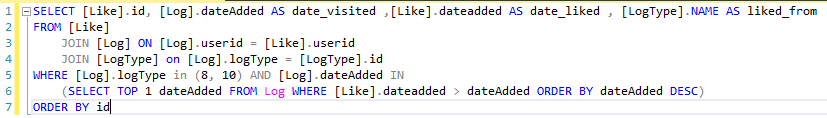
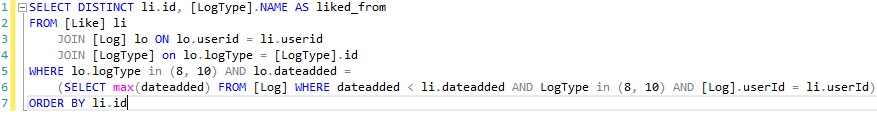
Add q2 and q3

Changed region(s): [[0.0, 0.0, 1.0, 0.9652]]

diff --git a/Bachelorproef/methodologie.tex b/Bachelorproef/methodologie.tex
@@ -16,20 +16,21 @@
 \textbf{INLEIDING LITERATUURSTUDIE}
 
 \subsection{Installatie}
+\label{Installatie}
 
-Elasticsearch is gratis als je zelf gaat hosten. De installatie verloopt zeer snel. Eerst moet je zorgen dat je Java hebt staan op je computer. Daarna download je een versie van Elasticsearch naar keuze op hun website. Pak het bestand uit en je bent klaar om je eerste node op te starten. Als dat allemaal te moeilijk lijkt is er ook een grafische user interface beschikbaar via de MSI installer package. Op hun website vind je stap voor stap hoe je de installatie kunt uitvoeren. 
+Elasticsearch is gratis als je beslist om zelf te hosten. De installatie verloopt zeer snel. Eerst moet je zorgen dat Java geïnstalleerd staat op je computer. Daarna download je een versie van Elasticsearch naar keuze via hun website. Pak het bestand uit en je bent klaar om je eerste node op te starten. Als dat te moeilijk is kan men gebruik maken van een grafische user interface die beschikbaar is via de MSI installer package. Op hun website staat stap voor stap uitgelegd hoe je de installatie kunt uitvoeren. 
 
-Er hangen niet zoveel nadelen vast aan het zelf hosten van Elasticsearch. Je moet over voldoende ruimte beschikken op je harde schijf. Dat kan moeilijk worden wanneer men met grote hoeveelheden data werkt. Het is ook belangrijk om te weten dat je zelf verantwoordelijk bent voor eventuele downtimes. Het is dus perfect mogelijk om Elasticsearch volledig gratis te gebruiken. 
+Er hangen niet zoveel nadelen vast aan het zelf hosten van Elasticsearch. Ten eerste moet je over voldoende ruimte beschikken op je harde schijf. Dat kan moeilijk worden wanneer men met grote hoeveelheden data werkt. Ten tweede is het belangrijk om te weten dat je zelf verantwoordelijk bent voor eventuele downtimes. Het is dus perfect mogelijk om Elasticsearch volledig gratis te gebruiken. 
 
-Wanneer men beslist om te betalen voor de hosting bij Elasticsearch krijgt men enkele voordelen mee. De eerder vermelde problemen in verband met ruimte op je harde schijf en downtimes zijn niet langer van toepassing.  Aan de hosting zijn een aantal Service Level Agreements gebonden die ervoor zorgen dat je verzekerd bent op een goede kwaliteit en op voldoende support. De kostprijs is 36,53 EUR per maand. Er is ook een mogelijkheid om vooraf een proefversie van 14 dagen te gebruiken 
+Wanneer men beslist om te betalen voor de hosting bij Elasticsearch krijgt men enkele voordelen mee. De eerder vermelde problemen in verband met ruimte op je harde schijf en downtimes zijn niet langer van toepassing.  Aan de hosting zijn een aantal Service Level Agreements gebonden die ervoor zorgen dat je verzekerd bent op een goede kwaliteit en op voldoende support. De kostprijs is 36,53 EUR per maand. Er is ook een mogelijkheid om vooraf een proefversie van 14 dagen te gebruiken.
 
 \subsection{Data importeren in Elasticsearch}
 
-Om data te exporteren van uw databank naar Elasticsearch zijn er een aantal mogelijkheden. De eerste mogelijkheid is er één die Elasticsearch zelf aanbiedt. Daarvoor maken ze gebruik van een ander product uit de Elastic Stack: Logstash. \textbf{GEEF IK HIER UITLEG OVER ELASTIC STACK?} Logstash is een tool om data te verwerken, te transformeren en uit te wisselen. Het is een product waar ook veel informatie en support van te vinden is. Logstash is dus een tool die veel flexibiliteit biedt maar vraagt wel een extra installatie. 
+Om data te exporteren van uw databank naar Elasticsearch zijn er een aantal mogelijkheden, afhankelijk van welke databank u gebruikt. De eerste mogelijkheid is er één die Elasticsearch zelf aanbiedt. Daarvoor maken ze gebruik van een ander product uit de Elastic Stack\footnote{De Elastic Stack is een verzameling van open-source producten van Elastic.}: Logstash. Logstash is een tool om data te verwerken, te transformeren en uit te wisselen. Het is een product waar veel informatie en support over te vinden is. Logstash is dus een tool die veel flexibiliteit biedt maar vraagt wel een extra installatie. 
 
 Daarnaast zijn er een aantal tools die aangeboden worden door de community. Van die tools is er in het algemeen minder support te vinden. Nog een nadeel is dat het niet altijd mogelijk is om uw data naar de laatste versie van Elasticsearch te exporteren. De versies van de tools lopen namelijk in het algemeen achter op de nieuwste versie van Elasticsearch. 
 
-Zowel Logstash als de meeste tools die worden aangeboden door de community bieden ook de functionaliteit aan om data te synchroniseren. Dat wil zeggen dat, wanneer uw data veranderd in uw databank, die veranderingen ook doorgevoerd worden in Elasticsearch. 
+Zowel Logstash als de meeste tools die worden aangeboden door de community bieden ook de functionaliteit aan om data te synchroniseren. Dat wil zeggen dat, wanneer uw data veranderd in uw databank, die veranderingen ook doorgevoerd worden in Elasticsearch. In veel use cases zal dit veel voordelen bieden. 
 
 \textbf{VERDERE LITERATUURSTUDIE}
 
@@ -40,11 +41,11 @@ Om enkele voor- en nadelen uit de literatuurstudie te bevestigen of te ontkracht
 Een voordeel van een project opzetten om bepaalde zaken zelf te gaan ondervinden is dat men de grootte van het voor- of nadeel beter kan inschatten. Als men bijvoorbeeld een zwakte van Elasticsearch ondervind, dan zal men toch een antwoord op de vooraf opgestelde vraag moeten krijgen. Men zal dan ondervinden in hoeverre Elasticsearch toch in staat is om als hulpmiddel te dienen bij het oplossen van de vraag. Of misschien is er workaround waardoor de zwakte eigenlijk niet zo'n groot probleem is. Dat is informatie die met een literatuurstudie moeilijker te verkrijgen is.
 
 \subsection{De dataset}
-De dataset heb ik verkregen van het bedrijf waar ik mijn stage doe. Insites Consulting is een consulting bureau die haar klanten ondersteund in het nemen van doorslaggevende beslissingen. Dat doet men aan de hand van marktonderzoek. Uit de resultaten van zo'n marktonderzoek creërt men dan inzichten die worden doorgegeven aan de klant. 
+De dataset heb ik verkregen van het bedrijf waar ik mijn stage doe. Insites Consulting is een consulting bureau die haar klanten ondersteund in het nemen van doorslaggevende beslissingen. Dat doet men aan de hand van marktonderzoek. Uit de resultaten van zo'n marktonderzoek creërt men inzichten die worden doorgegeven aan de klant. 
 
 De ervaring leert dat het soms moeilijk is voor de klant om zo'n inzicht te benutten. In andere gevallen komen de resultaten van het marktonderzoek ergens in een documentje op de computer van de klant en wordt er verder niks mee gedaan. Insites Consulting bouwde enkele jaren geleden een applicatie die dit probleem tegengaat. De applicatie heet Insight Activation Studio. Elke klant krijgt een unieke Studio die aangepast wordt naar de noden, waarden en kleuren van de klant. Die aanpassingen gebeuren in eerste instantie door mensen van Insites Consulting maar ook de klant heeft een dashboard ter beschikking. Een dashboard is een geïsoleerd stuk van de applicatie die admin-gebruikers toelaat om de studio van hun bedrijf te beheren.  
 
-Werknemers van de klant kunnen zich registreren bij de Studio van hun bedrijf. Eens ze aangemeld zijn krijgen ze de mogelijkheid om walls\footnote{Een wall is een verzameling van tiles die min of meer over hetzelfde onderwerp gaan} en tiles\footnote{Een tile is vergelijkbaar met een post op Facebook maar met meer mogelijkheden. Een tile bestaat uit een type (idee, filmpje, foto, observatie, quiz, discussie, …), een titel, een beschrijving en er kan ook media aan toegevoegd worden. Andere mensen kunnen op jouw tile reageren en kunnen deze ook liken.} aan te maken. Ook krijgen ze walls en tiles van anderen te zien. Het is de bedoeling dat de verworven inzichten op deze Studio komen zodat mensen daarop kunnen reageren en liken. Zo ziet men snel welke inzichten populairder zijn bij de werknemers en worden die tot leven gebracht. Uit die inzichten kunnen ook nieuwe ideën vloeien.
+Werknemers van de klant kunnen zich registreren bij de Studio van hun bedrijf. Eens ze aangemeld zijn krijgen ze de mogelijkheid om walls\footnote{Een wall is een verzameling van tiles die min of meer over hetzelfde onderwerp gaan.} en tiles\footnote{Een tile is vergelijkbaar met een post op Facebook maar met meer mogelijkheden. Een tile bestaat uit een type (idee, filmpje, foto, observatie, quiz, discussie, …), een titel, een beschrijving en er kan ook media aan toegevoegd worden. Andere mensen kunnen op jouw tile reageren en kunnen deze ook liken.} aan te maken. Ook krijgen ze walls en tiles van anderen te zien. Het is de bedoeling dat de verworven inzichten op deze Studio komen zodat mensen daarop kunnen reageren en liken. Zo ziet men snel welke inzichten populairder zijn bij de werknemers en worden die tot leven gebracht. Uit die inzichten kunnen ook nieuwe ideën vloeien.
 
 De Insights Academy is een feature die in de Studio verweven zit. Daarop kunnen werknemers lessen volgen om te leren hoe men gebruik kan maken van zo’n inzicht. Daarnaast zijn er nog andere zaken (leaderboards, widgets, teams, … ) die het volledige proces leuker maken. Insights Activation Studio is dus eigenlijk de social media voor werknemers binnen een bedrijf om inzichten te creëren en tot leven te brengen.
 
@@ -56,23 +57,27 @@ De vragen heb ik verkregen van mijn co-promoter, Ken Vanderbeken, die Lead Devel
 De vragen zijn de volgende:
 \begin{itemize}
 	\item Werken bepaalde tile types beter dan andere? Meer response? (like/comment) 
-	\item Waar gebeuren de meeste likes? Vanaf de homepage of op wall pages?
-	\item Heeft de lengte van de titel van een tile invloed op aantal likes? 
-	\item Heeft de lengte van de description van een tile invloed op aantal likes? 
+	\item Waar gebeuren de meeste likes? Vanaf de homepagina of op wall pages?
+	\item Heeft de lengte van de titel van een tile invloed op aantal comments/likes? 
 \end{itemize}
 
 \subsection{Opzetten van het project}
 
-Voor de installatie van Elasticsearch verwijs ik graag naar \textbf{SECTION} aangezien alles verliep zoals het daar beschreven staat. Ik maakte geen gebruik van de grafische user interface aangezien het over een eenvoudige installatie gaat.
+Voor de installatie van Elasticsearch verwijs ik graag naar sectie \ref{Installatie} uit de literatuurstudie waar de installatie aan bod komt. De installatie gebeurde probleemloos op de manier zoals het daar beschreven staat. Ik maakte geen gebruik van de grafische user interface aangezien het over een eenvoudige installatie gaat.
 
-Om de data te exporteren heb ik gekozen voor een tool die ondersteund wordt door de community: JBDC importer for Elasticsearch. Mijn keuze is niet uitgegaan naar Logstash omdat er in de gids vermeld staat dat Logstash vooral gebruikt wordt om logs op te slaan. Ook had ik geen nood aan alle features die Logstash te bieden heeft. De methode van de JBDC importer leek me in mijn geval veel bruikbaarder. \textbf{(LINK?)} 
+Om de data te exporteren heb ik gekozen voor een tool die ondersteund wordt door de community: JBDC importer for Elasticsearch. Mijn keuze is niet uitgegaan naar Logstash omdat er in de gids vermeld staat dat Logstash vooral gebruikt wordt om logs op te slaan. Ook had ik geen nood aan alle features die Logstash te bieden heeft. De methode van de JBDC importer leek me in mijn geval veel bruikbaarder.
 
 Ik begon met de JBDC importer versie 2.3.4.1 te downloaden en uit te pakken. De uitgepakte map bevat een modelscript dat slechts een aantal aanpassingen nodig heeft om uitgevoerd te kunnen worden. Het script laat je toe om een query naar uw databank te sturen, en de resultaten op te slaan in één van uw Elasticsearch indices. Daarna downloadde ik de SQL Server JDBC driver versie 6.2 en kopieerde die naar de lib map in de JDBC importer. Deze stap is onnodig indien men met een MySQL databank werkt. 
 
-De voorlaatste stap is het aanmaken van de indices. Een index aanmaken in Elasticsearch is zeer eenvoudig.\textbf{ SCRIPT}
-Per index moet het modelscript, mits een aantal aanpassingen, uitgevoerd worden. 
+De voorlaatste stap is het aanmaken van de indices. Een index aanmaken in Elasticsearch is zeer eenvoudig. Via de API moet er een PUT-request worden gestuurd met als URL: http://localhost:9200/naam\textunderscore index.
+Per index moet het modelscript, mits een aantal aanpassingen, uitgevoerd worden. Het modelscript is te zien in figuur \ref{fig:data_import}.
 
-\textbf{SCRIPT }
+\begin{figure}
+	\centering
+	\includegraphics[width= 15cm]{data_import}
+	\caption{Modelscript om data te exporteren van SQL Server naar Elasticsearch}
+	\label{fig:data_import}
+\end{figure}
 
 \subsection{Uitvoeren van de data-analyses}
 Nadat ik de dataset succesvol overzette werd het tijd om met Elasticsearch te leren werken. Een belangrijk voordeel van de zoek- en analyse machine is dat er veel support is. Op hun website bieden ze een zeer uitgebreide, gestructureerde gids aan die alle mogelijkheden van Elasticsearch overloopt. In de gids kan men ook de versie kiezen waarop men werkt. Op die manier blijft de informatie steeds relevant. De gids wordt goed onderhouden wat wil zeggen dat er steeds informatie over de nieuwste versie van Elasticsearch ter beschikking is. 
@@ -88,7 +93,7 @@ Om een antwoord op deze vraag te vinden hebben we 2 indices uit de dataset nodig
 
 Elasticsearch biedt een oplossing voor dit probleem. Met aggregaties wordt het mogelijk om documents te groeperen. In de gids over aggregaties wordt de vergelijking gemaakt met het GROUP BY sleutelwoord in SQL Server. Daarbij vermelt men dat aggregaties in Elasticsearch echter veel meer mogelijkheden bieden. Zo bestaan er een 50-tal soorten aggregaties. Dat is een groot aantal die het gebruik ervan complex maakt. Zeker omdat aggregaties ook genest kunnen worden. Dat wil zeggen dat men binnen een aggregatie opnieuw een aggregatie kan doen. De flexibiliteit is echter zeer hoog omdat de mogelijkheden enorm zijn. Mijn ervaringen tot nu toe spreken dus tegen met \textbf{TODO: BRON} waarin verteld wordt dat Elasticsearch minder flexibiliteit biedt dan SQL Server. Bij het oplossen van de volgende vraag kom ik hier op terug. \textbf{TODO: BEN JE HIEROP TERUGGEKOMEN?}
 
-Om alle tiles uit de tile-index op te vragen moeten we een GET call sturen naar Elasticsearch. Om verdere filteringen, sorteringen of andere functies uit te voeren zijn er 2 methodes. Bij de eerste methode kan men parameters meegeven op het einde van de URL. Bij de tweede methode kan men een body in JSON-formaat meegeven aan de call. Ik koos voor de tweede methode omdat niet alle mogelijkheden binnen Elasticsearch meegegeven kunnen worden aan de URL. Bij deze keuze struikelde ik meteen op een eerste probleem. Niet alle API clients, inclusief Postman, bieden de mogelijkheid om een body mee te geven aan een GET call omdat dat geen normale manier van werken is. De ontwikkelaars van Elasticsearch hebben daar rekening mee gehouden en zorgden ervoor dat data opvragen ook met een POST call mogelijk is. Ik verloor niet meer dan 5 minuten aan dit probleem en aangezien er een kleine workaround is beschouw ik het niet als een nadeel.
+Om alle tiles uit de tile-index op te vragen moeten we een GET request sturen naar Elasticsearch. Om verdere filteringen, sorteringen of andere functies uit te voeren zijn er 2 methodes. Bij de eerste methode kan men parameters meegeven op het einde van de URL. Bij de tweede methode kan men een body in JSON-formaat meegeven aan de call. Ik koos voor de tweede methode omdat niet alle mogelijkheden binnen Elasticsearch meegegeven kunnen worden aan de URL. Bij deze keuze struikelde ik meteen op een eerste probleem. Niet alle API clients, inclusief Postman, bieden de mogelijkheid om een body mee te geven aan een GET call omdat dat geen normale manier van werken is. De ontwikkelaars van Elasticsearch hebben daar rekening mee gehouden en zorgden ervoor dat data opvragen ook met een POST request mogelijk is. Ik verloor niet meer dan 5 minuten aan dit probleem en aangezien er een kleine workaround is beschouw ik het niet als een nadeel.
 
 De URL van de call ziet er als volgt uit: http://localhost:9200/tile/\textunderscore search. Het woord tile duidt aan dat we binnen de tile-index zoeken. Het woord \textunderscore search geeft aan dat we naar documents binnen de index zoeken. Indien we dat laatste niet meegeven krijg je enkel het schema van de index terug.
 
@@ -112,7 +117,7 @@ Als we het script uitvoeren krijgen we een resultaat zoals te zien in figuur \re
 
 Het key-veld in de resultaten stelt telkens het tiletypeid voor waarop we groepeerden. Per aggregatie werd er een nieuwe aggregatie uitgevoerd die de gemiddelde activiteit berekende. De gemiddelde activiteit valt af te lezen in het value-veld. Het is duidelijk dat, in deze dataset, tiles met tiletypeid 2 meer activiteit vertonen dan andere tiles. Dat is leuk om te weten maar zegt op zich niet veel. We willen graag weten met welk tiletype deze id overeen komt. We stoten echter op een probleem.
 
-Om een zoekopdracht uit te voeren op meerdere indices tegelijk zouden we de indeces bij bepaalde voorwaarden moeten samenvoegen. In SQL Server kan men dit realiseren met het JOIN-sleutelwoord. Join-operaties zijn zeer duur in Elasticsearch. Zo duur dat de ontwikkelaars ervoor zorgden dat join-operaties over verschillende indices onmogelijk zijn. Een document moet alle informatie bevatten die nodig is om te beslissen of het al dan niet in de zoekresultaten terechtkomt. Je moet dus op voorhand beslissen hoe je gaat zoeken en uw index daaraan aanpassen. Indien de query herhaaldelijk moet worden uitgevoerd vormt dat geen probleem. Maar in ons geval willen we een éénmalig antwoord op onze vraag. Dat wil zeggen dat we telkens een nieuwe index moet aanmaken en de data opnieuw importeren om er nadien slecht één query op uit te voeren. Die manier van werken zorgt voor een index overhead en beschouw ik als een groot nadeel van Elasticsearch.
+Om een zoekopdracht uit te voeren op meerdere indices tegelijk zouden we de indeces bij bepaalde voorwaarden moeten samenvoegen. In SQL Server kan men dit realiseren met het JOIN-sleutelwoord. Join-operaties zijn zeer duur in Elasticsearch. Zo duur dat de ontwikkelaars ervoor zorgden dat join-operaties over verschillende indices onmogelijk zijn. Een document moet alle informatie bevatten die nodig is om te beslissen of het al dan niet in de zoekresultaten terechtkomt. Je moet dus op voorhand beslissen hoe je gaat zoeken en uw index daaraan aanpassen. Indien de query herhaaldelijk moet worden uitgevoerd is dat de moeite waard en vormt dat geen probleem. Maar in ons geval willen we een éénmalig antwoord op onze vraag. Dat wil zeggen dat we telkens een nieuwe index moet aanmaken en de data opnieuw importeren om er nadien slecht één query op uit te voeren. Die manier van werken zorgt voor een index overhead en beschouw ik als een groot nadeel van Elasticsearch.
 
 Bij deze vraag zijn we echter enkel geïnteresseerd in één tiletype. Wat we ook kunnen doen is een tweede query uitvoeren op de tiletype-index. We geven het id mee en vragen zo het juiste tiletype op. Deze manier van werken heeft als voordeel dat we geen nieuwe index moeten aanmaken. De nadelen van deze manier van werken zijn dat je telkens meerdere queries moet uitvoeren en dat het niet altijd realistisch is om dat te doen. Wanneer we over tientallen documenten spreken dan gaat de voorkeur toch naar het aanmaken van een nieuwe index. Voor ons is dat niet van toepassing dus koos ik voor de tweede methode.
 
@@ -134,12 +139,11 @@ Het antwoord op de eerste vraag luidt: Ja, tiles met tiletype idea werken beter 
 	\label{fig:scriptresult2}
 \end{figure}
 
-\subsubsection{Waar gebeuren de meeste likes? Vanaf de homepage of op wall pages?}
-Om deze vraag te beantwoorden hebben we 3 indices nodig: like, log en logtype. Wanneer een gebruiker naar de homepage navigeert dan wordt dat gelogd in de log-tabel met logtype 8. Wanneer een gebruiker naar een wall page navigeert dan wordt dat gelogd in de log-tabel met logtype 10. Wanneer een gebruiker een tile liked dan komt er een nieuw record in de like tabel. Bij dit probleem zullen we wel verplicht zijn om een nieuwe index te maken. We willen namelijk 3 indices samennemen en we zijn geïntereseerd in alle documents.
+\subsubsection{Waar gebeuren de meeste likes? Vanaf de homepagina of op wall pages?}
+Om deze vraag te beantwoorden hebben we 3 indices nodig: like, log en logtype. Wanneer een gebruiker naar de homepagina navigeert dan wordt dat gelogd in de log-tabel met logtype 8. Wanneer een gebruiker naar een wall page navigeert dan wordt dat gelogd in de log-tabel met logtype 10. Wanneer een gebruiker een tile liked dan komt er een nieuw record in de like tabel. Bij dit probleem zullen we wel verplicht zijn om een nieuwe index aan te maken. We willen namelijk 3 tabellen samennemen en we zijn geïntereseerd in alle documents.
 
-Voor onze nieuwe index willen we de volgende structuur: de id van de like, de datum en tijd van de laatste log van de gebruiker voordat de like plaatsvond, de datum en tijd van het liken en de plaats waarop de gebruiker geliked heeft. We maken een nieuwe index aan genaamd question2 en schrijven een script om de data te importeren. Het SQL-script is te zien in figuur \ref{fig:script3}.
+In onze nieuwe index hebben we slechts twee velden nodig: de id van de like en de pagina waarop de like gebeurde. Er zal een script moeten geschreven worden om de data van SQL Server naar de nieuwe index te exporteren. In het script moet, per like, uitgemaakt worden of die vanop de homepagina of vanop een wall pagina gebeurde. We willen dus de meest recente log met logtype 8 of 10 die minder recent is dan de like en dezelfde userId heeft als de gebruiker die de like uitvoerde. Het SQL-script is te zien in figuur \ref{fig:script3}. Het valt op dat sommige likes dubbel voorkomen in de index. De oorzak hiervan is dat de tijd waarop een log aangemaakt wordt, telkens afgerond is op één minuut. Als men binnen de minuut beide pagina's bezoekt en vervolgens een tile liked is het niet duidelijk vanop welke pagina de like gebeurde. Omdat het hier om een zeer klein aantal dubbele likes gaat worden deze gewoon meegeteld op beide pagina's.
 
-%% TODO: change script
 \begin{figure}
 	\centering
 	\includegraphics[width=17.5cm]{script3}
@@ -147,10 +151,87 @@ Voor onze nieuwe index willen we de volgende structuur: de id van de like, de da
 	\label{fig:script3}
 \end{figure}
 
-De index staat klaar en nu moeten we enkel nog een aggregatie doen op de plaats vanwaar er geliked werd. De URL van de query ziet er als volgt uit: http://localhost:9200/question2/\textunderscore search. In de body \textbf{TODO: figure body} geven we mee dat we een aggregatie willen op het liked\textunderscore from-veld. \textbf{TODO: result}.
+De index staat klaar en nu moeten we enkel nog een aggregatie doen op de plaats waar er geliked werd. De URL van de query ziet er als volgt uit: http://localhost:9200/question2/\textunderscore search. In de body (figuur \ref{fig:script4}) geven we mee dat we een aggregatie willen op het liked\textunderscore from-veld. Aan de hand van die aggregatie kunnen we zien hoeveel likes er op de homepagina gebeurden en hoeveel likes er op wall pages gebeurden. Het resultaat van de query is te zien in figuur \ref{fig:scriptresult4}.
 
-\subsubsection{Heeft de lengte van de titel van een tile invloed op aantal likes}
+\begin{figure}
+	\centering
+	\includegraphics{script4}
+	\caption{Body script 4}
+	\label{fig:script4}
+\end{figure}
 
-Om het verband de tussen twee variabelen te berekenen zullen we een chi-kwadraattoets uitvoeren. \textbf{GEEF IK HIER UITLEG OVER DE CHI-KWADRAATTOETS?} Indien uit het resultaat blijkt dat er een verband is zullen we de sterkte van het verband berekenen met Cramers V. Elasticsearch biedt geen ondersteuning voor dergelijke berekeningen. Deze kunnen nochtans zeer interessant zijn bij het maken van een data-analyse. Om toch een antwoord op de vraag te krijgen zullen we Elasticsearch als hulp gebruiken bij het uitvoeren van de chi-kwadraattoets. Op die manier zal het duidelijk worden in hoeverre Elasticsearch ons kan helpen bij ingewikkelde calculaties zoals de chi-kwadraattoets en Cramers V. 
+\begin{figure}
+	\centering
+	\includegraphics{scriptresult4}
+	\caption{Resultaat script 4}
+	\label{fig:scriptresult4}
+\end{figure}
 
-Bij het opbouwen van onze tabel gaan we zowel de lengte van de titel alsook het aantal likes opdelen in klassen. We willen een zicht krijgen van de grootte die een klasse moet krijgen. Daarom vragen we aan Elasticsearch hoelang de langste titel is en wat het grootste aantal likes is. \textbf{QUERIES} 
+Uit het resultaat kunnen we besluiten dat de meeste likes vanaf de homepagina gebeuren. Dat is dan ook meteen het antwoord op de vraag. Men kan echter wel zien dat het aantal likes vanaf de homepagina en het aantal likes vanaf wall pages zeer dicht bij elkaar liggen. 
+
+Bij het oplossen van deze vraag zou het onbegonnen werk zijn geweest om meerdere queries uit te voeren op verschillende indices. De werkwijze die in de vorige vraag de voorkeur kreeg kon hier niet worden herbruikt. Het meest complexe rekenwerk was het bepalen vanop welke pagina een like gebeurde. Elasticsearch biedt geen eenvoudige manier om die berekening te doen. Het gebrek aan joins werd nu ervaren als een groot nadeel.
+
+\subsubsection{Heeft de lengte van de titel van een tile invloed op aantal comments/likes}
+
+Om te bepalen of er een verband is tussen de variabelen lengte van de titel en aantal comments/likes zullen we een chi-kwadraat toets uitvoeren. Indien uit het resultaat blijkt dat er een verband is kan de sterkte van het verband berekend worden met Cramers V. Elasticsearch biedt geen ondersteuning voor dergelijke berekeningen. Deze kunnen nochtans zeer interessant zijn bij het maken van een data-analyse. Om toch een antwoord op de vraag te krijgen zullen we Elasticsearch als hulpmiddel gebruiken bij het uitvoeren van de chi-kwadraattoets. Op die manier zal het duidelijk worden in hoeverre Elasticsearch ons kan helpen bij ingewikkelde calculaties zoals de chi-kwadraat toets. 
+
+De eerste stap bij het uitvoeren van een chi-kwadraat toets is het opstellen van een kruistabel. Bij het opstellen van een kruistabel moeten we onze variabelen indelen in klassen. We berekenen per variabele de grootste waarde in de dataset zodat we weten tot hoever onze klassen moeten reiken. Figuur \ref{fig:calculatenamelength} toont hoe we de lengte van de langste naam van een tile kunnen berekenen. Bij het uitvoeren van deze query krijgt men en resultaat van 49. In een gelijkaardige query vinden we dat de maximale som van het aantal likes en het aantal comments van een tile 33 is.
+
+We kiezen ervoor om beide variabelen op te delen in drie klassen. Voor de variabele lengte van de titel stellen de klassen [0, 17], [18, 34] en [35, 51] respectievelijk 'korte titel', 'middellange titel' en 'lange titel' voor. Voor de variabele aantal comments/likes stellen de klassen [0, 11], [12, 22] en [23, 33] respectievelijk 'weinig activiteit', 'gemiddelde activiteit' en 'veel activiteit' voor. We kunnen nu onze kruistabel opstellen.
+
+\begin{figure}
+	\centering
+	\includegraphics{calculate_name_length}
+	\caption{Body om de lengte van de langste naaam van een tile te berekenen}
+	\label{fig:calculatenamelength}
+\end{figure}
+
+Er kan een query geschreven worden in Elasticsearch die de waarden voor onze kruistabel teruggeeft. De aggregatie die aangemaakt word is terug te vinden in bijlage 2. \textbf{TODO: voeg bijlage 2 toe} We noemen de aggregatie table. In het filter-veld geven we '1=1' mee om te forceren dat alle documents in de resultaten terugkomen. Het filter-veld zou hier als overbodig kunnen worden beschouwd maar het weglaten ervan zorgt voor foutmeldingen. In onze table-aggregatie maken we drie nieuwe aggregaties aan. Elk van de aggregaties stelt een klasse van de lengte van de titel voor. We noemen de aggregaties row0-17, row18-35 en row35, 51. In het filter-veld van elk van deze aggregaties geven we mee dat enkel documents die tot die klasse behoren mogen meegeteld worden in de resultaten. We doen dit door restricties op te leggen op de lengte van de titel van de tile. In elk van de drie aggregaties maken we opnieuw drie aggregaties aan die de klassen van het aantal comments/likes voorstellen. Opnieuw geven we restricties mee in elk van de filter-velden zodat de juiste documents in de juiste klassen komen. Het resultaat van de query wordt weergegeven in bijlage 3 \textbf{TODO: voeg bijlage 3 toe}. In figuur \ref{fig:tablewrong} worden de resultaten in een kruistabel weergegeven.
+
+De tweede stap houdt in er voor elke waarde in de kruistabel een verwachte waarde moet berekend worden. De verwachte waarde wordt berekend door het totaal van de rij te vermenigvuldigen met het totaal van de kolom en dat resultaat te delen door de echte waarde. De verwachte resultaten komen opnieuw in een kruistabel (figuur \ref{fig:tablewrongV}).
+
+In de derde stap wordt er gevalideerd of de verwachte waarden voldoen aan de stelling van Cochran. De stelling van Cochran luidt dat geen enkele cel een verwachte waarde kleiner dan 1 mag hebben. Daarnaast mag niet meer dan 20\% van de cellen een verwachte waarde kleiner dan 5 hebben. Indien de kruistabel niet voldoet aan de stelling van Cochran dan heeft de uitkomst van de chi-kwadraat toets geen betekenis. We valideren onze kruistabel aan de stelling van Cochran en besluiten dat meer dan 20\% van de cellen een verwachte waarde kleiner dan 5 heeft. Om de chi-kwadraat toets toch te kunnen uitvoeren zullen de klassen moeten opnieuw ingedeeld moeten worden. We behouden de klassen van de lengte van de titel. De nieuwe klassen [0, 16] en [17, 33] stellen respectievelijk 'weinig activiteit' en 'veel activiteit' voor. We passen onze query aan om de waarden voor de kruistabel te berekenen. De nieuwe query is terug te vinden in bijlage 3 \textbf{TODO: voeg bijlage 3 toe}. In figuur \ref{fig:tablecorrect} worden de resultaten in een kruistabel weergegeven.
+
+
+\begin{figure}
+	\centering
+	\includegraphics{table_wrong}
+	\caption{Kruistabel voor vraag 3}
+	\label{fig:tablewrong}
+\end{figure}
+
+\begin{figure}
+	\centering
+	\includegraphics{table_wrong_V}
+	\caption{Verwachte waarden voor vraag 3}
+	\label{fig:tablewrongV}
+\end{figure}
+
+\begin{figure}
+	\centering
+	\includegraphics{table_correct}
+	\caption{Kruistabel voor vraag 3 na de herindeling van de klassen}
+	\label{fig:tablecorrect}
+\end{figure}
+
+We berekenen opnieuw de verwachte waarden (figuur \ref{fig:tablecorrectV}) en valideren onze kruistabel opnieuw aan de stelling van Cochran. Alle cellen hebben een verwachte waarde groter of gelijk aan 1. Slechts 1/6 (16,667\%) van de cellen hebben een verwachte waarde die kleiner is dan 5. Deze keer wordt er voldaan aan de stelling van Cochran. Het resultaat van de chi-kwadraattoets zal nu wel betekenisvol zijn.
+
+
+\begin{figure}
+	\centering
+	\includegraphics{table_correct_V}
+	\caption{Verwachte waarden voor vraag 3 na de herindeling van de klassen}
+	\label{fig:tablecorrectV}
+\end{figure}
+
+In de vierde en laatste stap bereken we de waarde voor $\tilde\chi^2$ (chi-kwadraat). Deze waarde kunnen we vergelijken met de kritieke waarde om te bepalen of er samenhang is tussen de twee variabelen. $\tilde\chi^2$ is de som van de kwadraten van het verschil van de werkelijke waarde en de verwachte waarde gedeeld door de verwachte waarde. In een laatste kruistabel (figuur \ref{fig:table_correct_values}) kunnen we deze waarde voor elke cel terugvinden.
+
+\begin{figure}
+	\centering
+	\includegraphics{table_correct_values}
+	\caption{Verwachte waarden voor vraag 3 na de herindeling van de klassen}
+	\label{fig:tablecorrectvalues}
+\end{figure}
+
+De som van al deze waarden, en daarmee ook $\tilde\chi^2$, is 1,7412. We werken met een significantieniveau van 5\%. Om de kritieke waarde op te zoeken hebben we het aantal vrijheidsgraden (df) nodig. Het aantal vrijheidsgraden bereken je door het aantal rijen - 1 te vermenigvuldigen met het aantal kolommen -1. In dit geval is dat 2 keer 1. De kritieke waarde voor 2 vrijheidsgraden met significantieniveau 5\% is 5,99. De berekende $\tilde\chi^2$ is strikt kleiner dan 5,99 wat wil zeggen dat er geen verband is tussen de twee variabelen.
+
